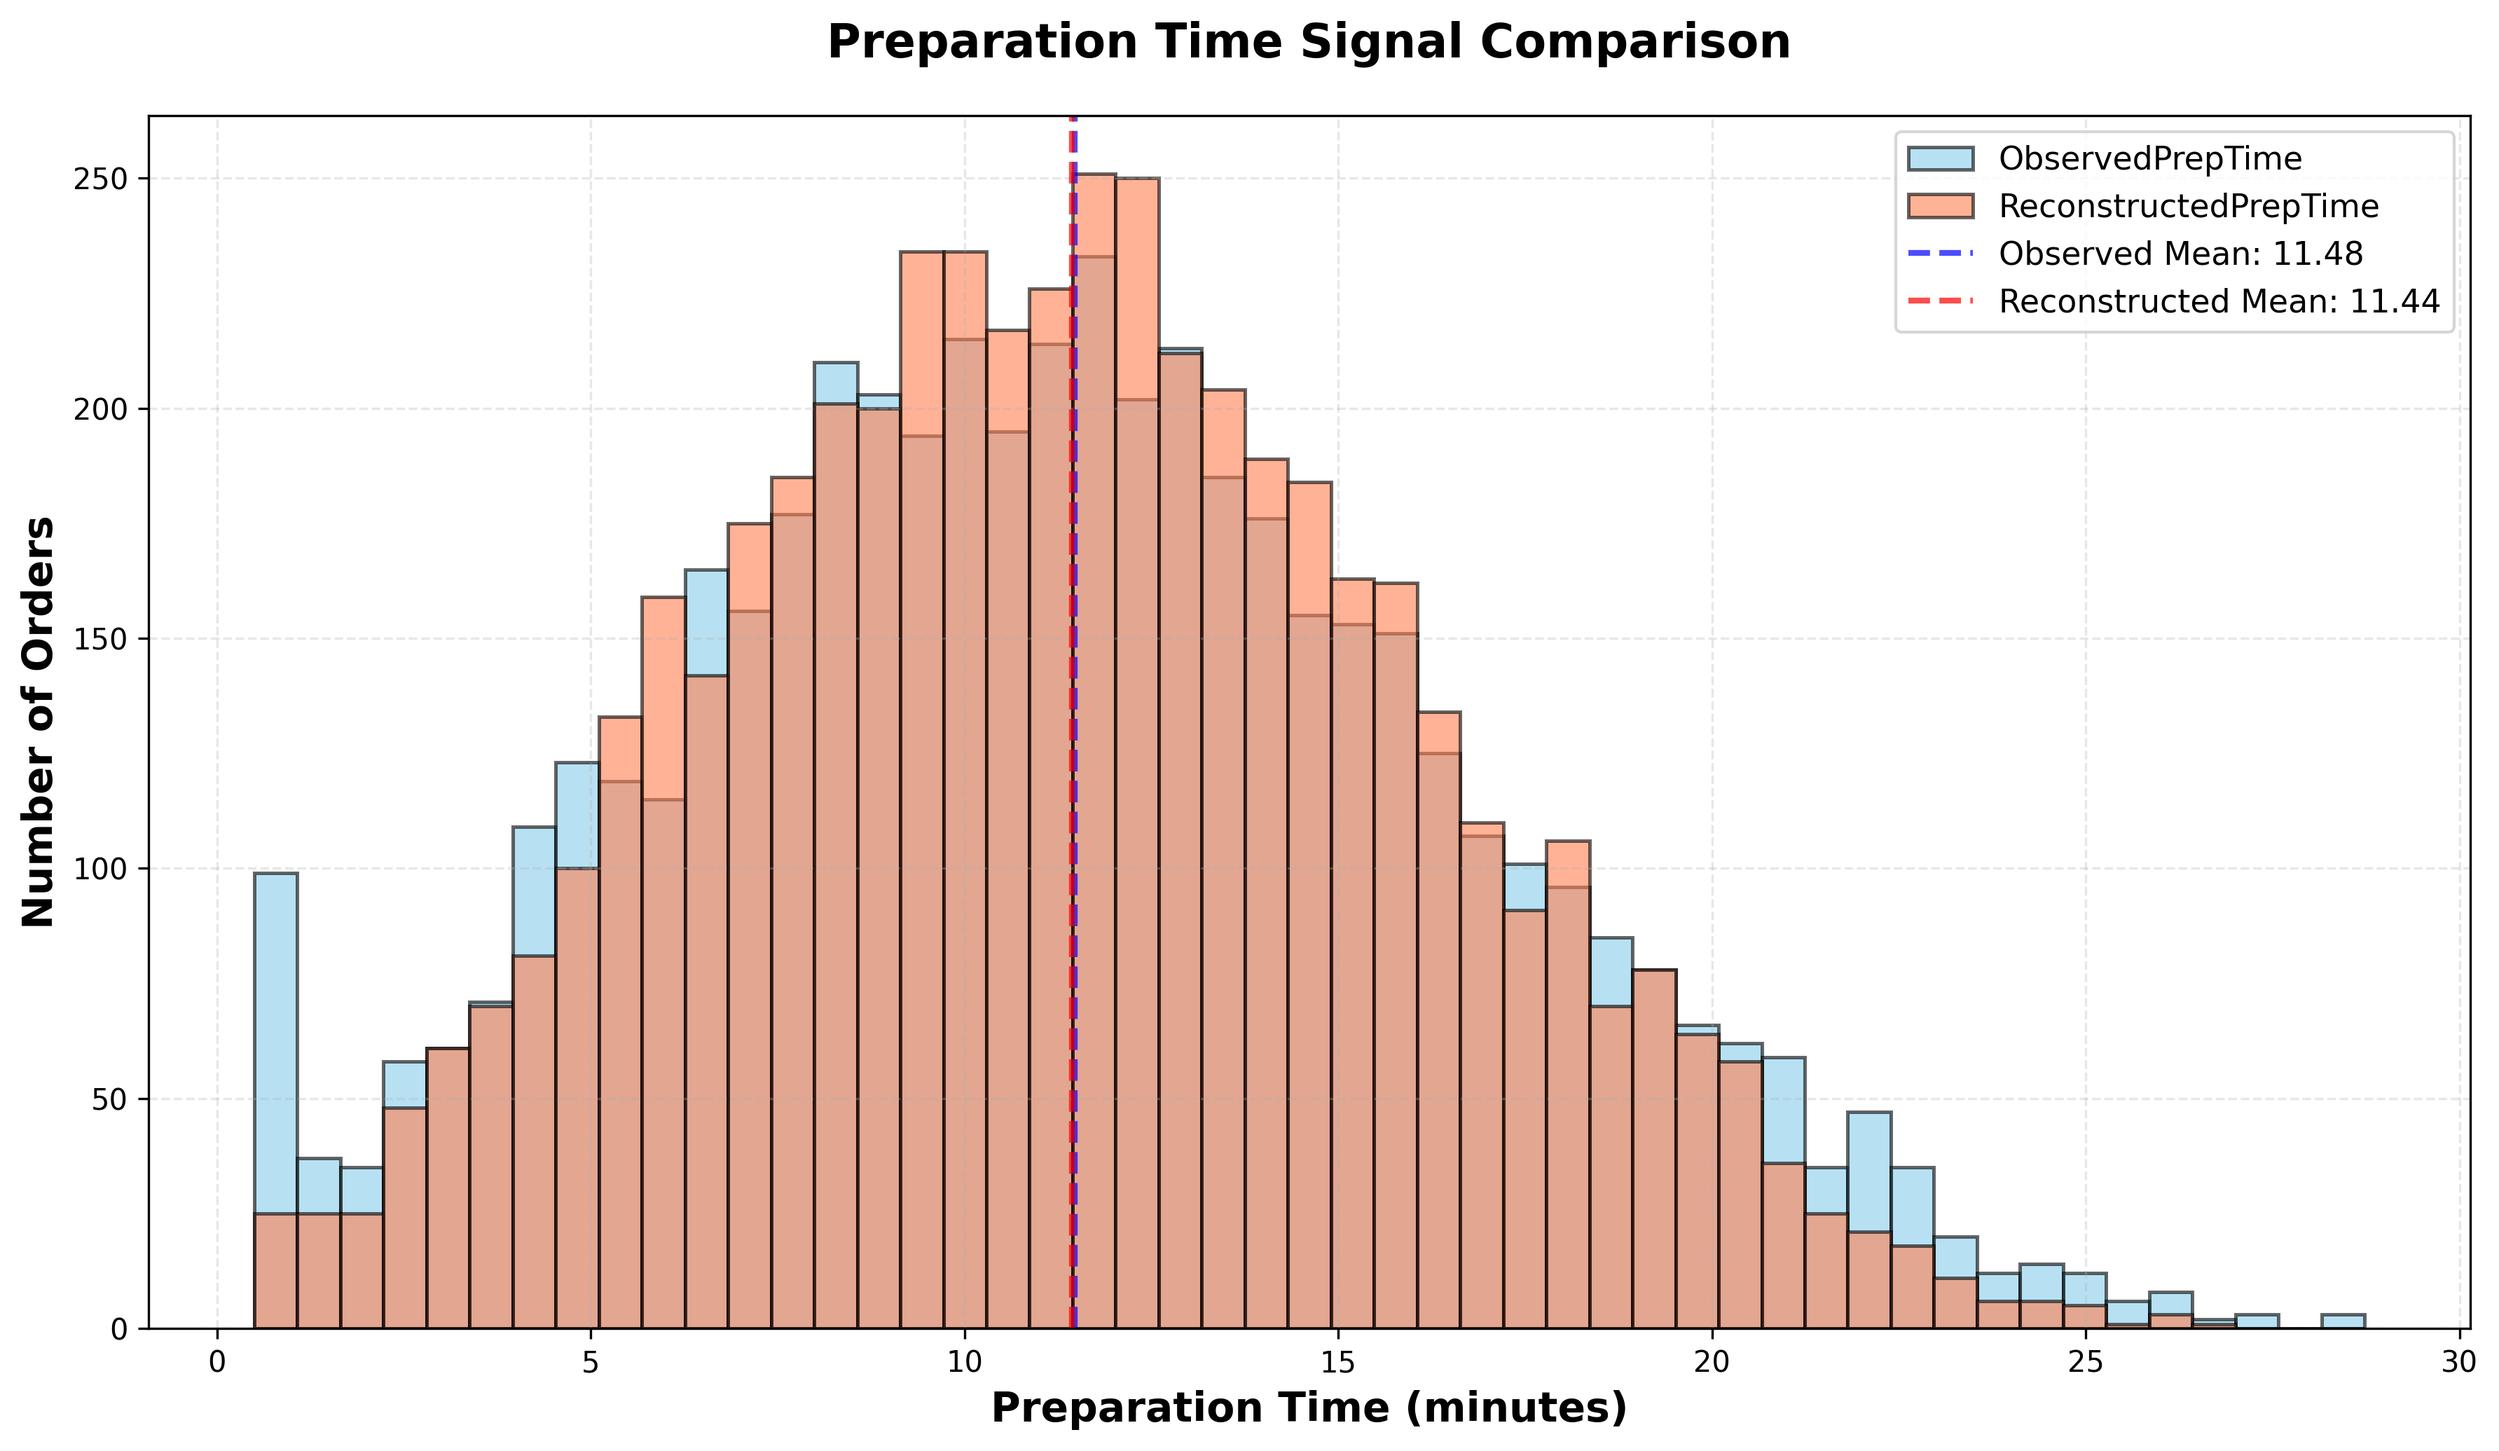
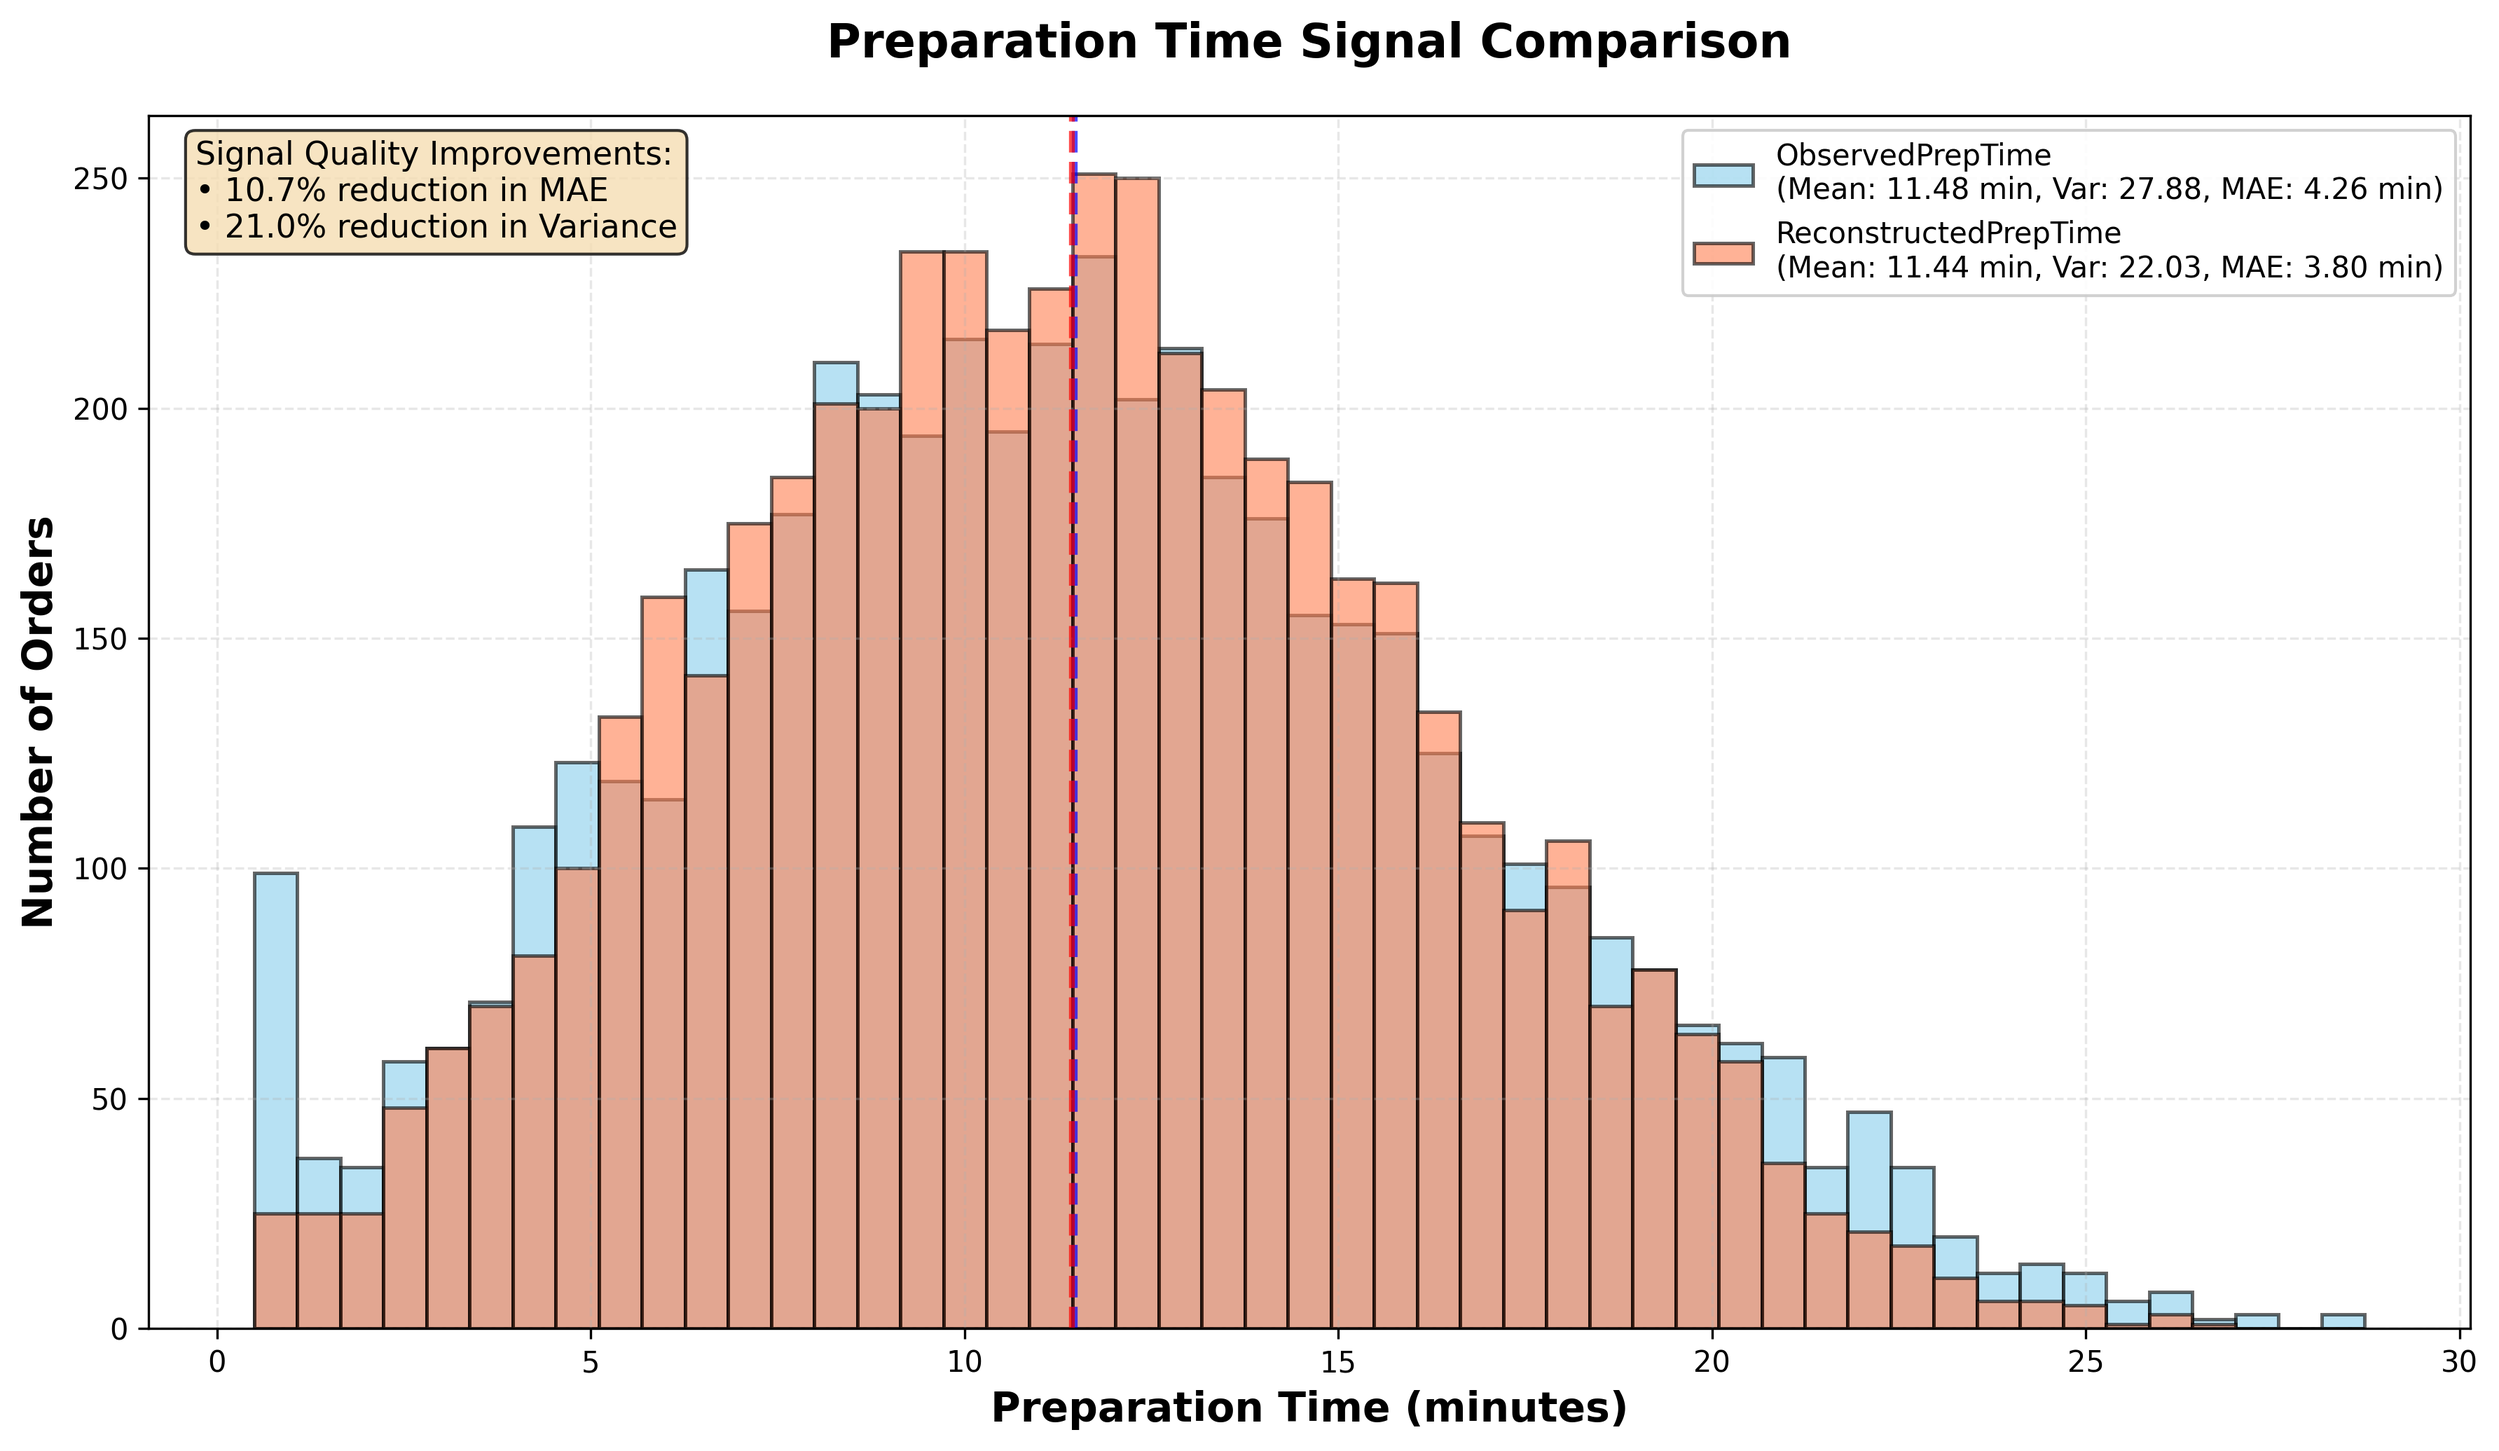
Update signal comparison plot: Add variance and MAE metrics
- Add variance values to legend alongside mean and MAE
- Display both MAE and variance improvements in annotation box
- Show percentage reduction in both metrics for signal quality comparison
- Update plot to comprehensively show all statistical improvements

Made-with: Cursor

Changed region(s): [[0.6535, 0.0927, 0.9958, 0.2163], [0.0622, 0.0618, 0.2801, 0.1854]]

diff --git a/analysis/signal_analysis.py b/analysis/signal_analysis.py
@@ -233,7 +233,7 @@ def save_results_summary(stats, output_path='analysis/results_summary.csv'):
     print(f"\nResults summary saved to {output_path}")
 
 
-def plot_comparison(df, output_path='analysis/signal_comparison.png'):
+def plot_comparison(df, stats=None, output_path='analysis/signal_comparison.png'):
     """
     Create histogram comparison plot of ObservedPrepTime vs ReconstructedPrepTime.
     
@@ -241,6 +241,8 @@ def plot_comparison(df, output_path='analysis/signal_comparison.png'):
     -----------
     df : pd.DataFrame
         Dataset containing ObservedPrepTime and ReconstructedPrepTime columns
+    stats : dict, optional
+        Dictionary containing computed statistics (for displaying MAE values)
     output_path : str
         Path to save the plot image
     """
@@ -249,6 +251,22 @@ def plot_comparison(df, output_path='analysis/signal_comparison.png'):
     # Extract preparation time columns
     observed = df['ObservedPrepTime']
     reconstructed = df['ReconstructedPrepTime']
+    
+    # Compute statistics if not provided
+    if stats is None:
+        mean_observed = observed.mean()
+        mean_reconstructed = reconstructed.mean()
+        var_observed = observed.var()
+        var_reconstructed = reconstructed.var()
+        mae_observed = np.mean(np.abs(observed - mean_observed))
+        mae_reconstructed = np.mean(np.abs(reconstructed - mean_reconstructed))
+    else:
+        mean_observed = stats.get('mean_observed', observed.mean())
+        mean_reconstructed = stats.get('mean_reconstructed', reconstructed.mean())
+        var_observed = stats.get('var_observed', observed.var())
+        var_reconstructed = stats.get('var_reconstructed', reconstructed.var())
+        mae_observed = stats.get('mae_observed', np.mean(np.abs(observed - observed.mean())))
+        mae_reconstructed = stats.get('mae_reconstructed', np.mean(np.abs(reconstructed - reconstructed.mean())))
     
     # Create figure with proper formatting
     plt.figure(figsize=(12, 7))
@@ -271,17 +289,30 @@ def plot_comparison(df, output_path='analysis/signal_comparison.png'):
     plt.title('Preparation Time Signal Comparison', fontsize=16, fontweight='bold', pad=20)
     plt.xlabel('Preparation Time (minutes)', fontsize=14, fontweight='bold')
     plt.ylabel('Number of Orders', fontsize=14, fontweight='bold')
-    plt.legend(fontsize=12, loc='upper right')
     plt.grid(True, alpha=0.3, linestyle='--')
     
     # Add vertical lines for means
-    plt.axvline(observed.mean(), color='blue', linestyle='--', linewidth=2, 
-                alpha=0.7, label=f'Observed Mean: {observed.mean():.2f}')
-    plt.axvline(reconstructed.mean(), color='red', linestyle='--', linewidth=2, 
-                alpha=0.7, label=f'Reconstructed Mean: {reconstructed.mean():.2f}')
+    mean_obs = mean_observed
+    mean_recon = mean_reconstructed
+    plt.axvline(mean_obs, color='blue', linestyle='--', linewidth=2, alpha=0.7)
+    plt.axvline(mean_recon, color='red', linestyle='--', linewidth=2, alpha=0.7)
     
-    # Update legend to include mean lines
-    plt.legend(fontsize=11, loc='upper right')
+    # Create legend with mean, variance, and MAE values
+    legend_labels = [
+        f'ObservedPrepTime\n(Mean: {mean_obs:.2f} min, Var: {var_observed:.2f}, MAE: {mae_observed:.2f} min)',
+        f'ReconstructedPrepTime\n(Mean: {mean_recon:.2f} min, Var: {var_reconstructed:.2f}, MAE: {mae_reconstructed:.2f} min)'
+    ]
+    plt.legend(legend_labels, fontsize=10, loc='upper right', framealpha=0.9)
+    
+    # Add text annotation showing improvements
+    mae_improvement = ((mae_observed - mae_reconstructed) / mae_observed) * 100
+    var_improvement = ((var_observed - var_reconstructed) / var_observed) * 100
+    textstr = (f'Signal Quality Improvements:\n'
+               f'• {mae_improvement:.1f}% reduction in MAE\n'
+               f'• {var_improvement:.1f}% reduction in Variance')
+    plt.text(0.02, 0.98, textstr, transform=plt.gca().transAxes, 
+             fontsize=11, verticalalignment='top', bbox=dict(boxstyle='round', 
+             facecolor='wheat', alpha=0.8))
     
     # Tight layout for better appearance
     plt.tight_layout()
@@ -328,8 +359,8 @@ def main():
     # Step 3: Save results summary
     save_results_summary(stats, output_path='analysis/results_summary.csv')
     
-    # Step 4: Generate comparison plot
-    plot_comparison(df, output_path='analysis/signal_comparison.png')
+    # Step 4: Generate comparison plot (pass stats to include MAE values)
+    plot_comparison(df, stats=stats, output_path='analysis/signal_comparison.png')
     
     print("\n" + "="*60)
     print("ANALYSIS COMPLETE")
